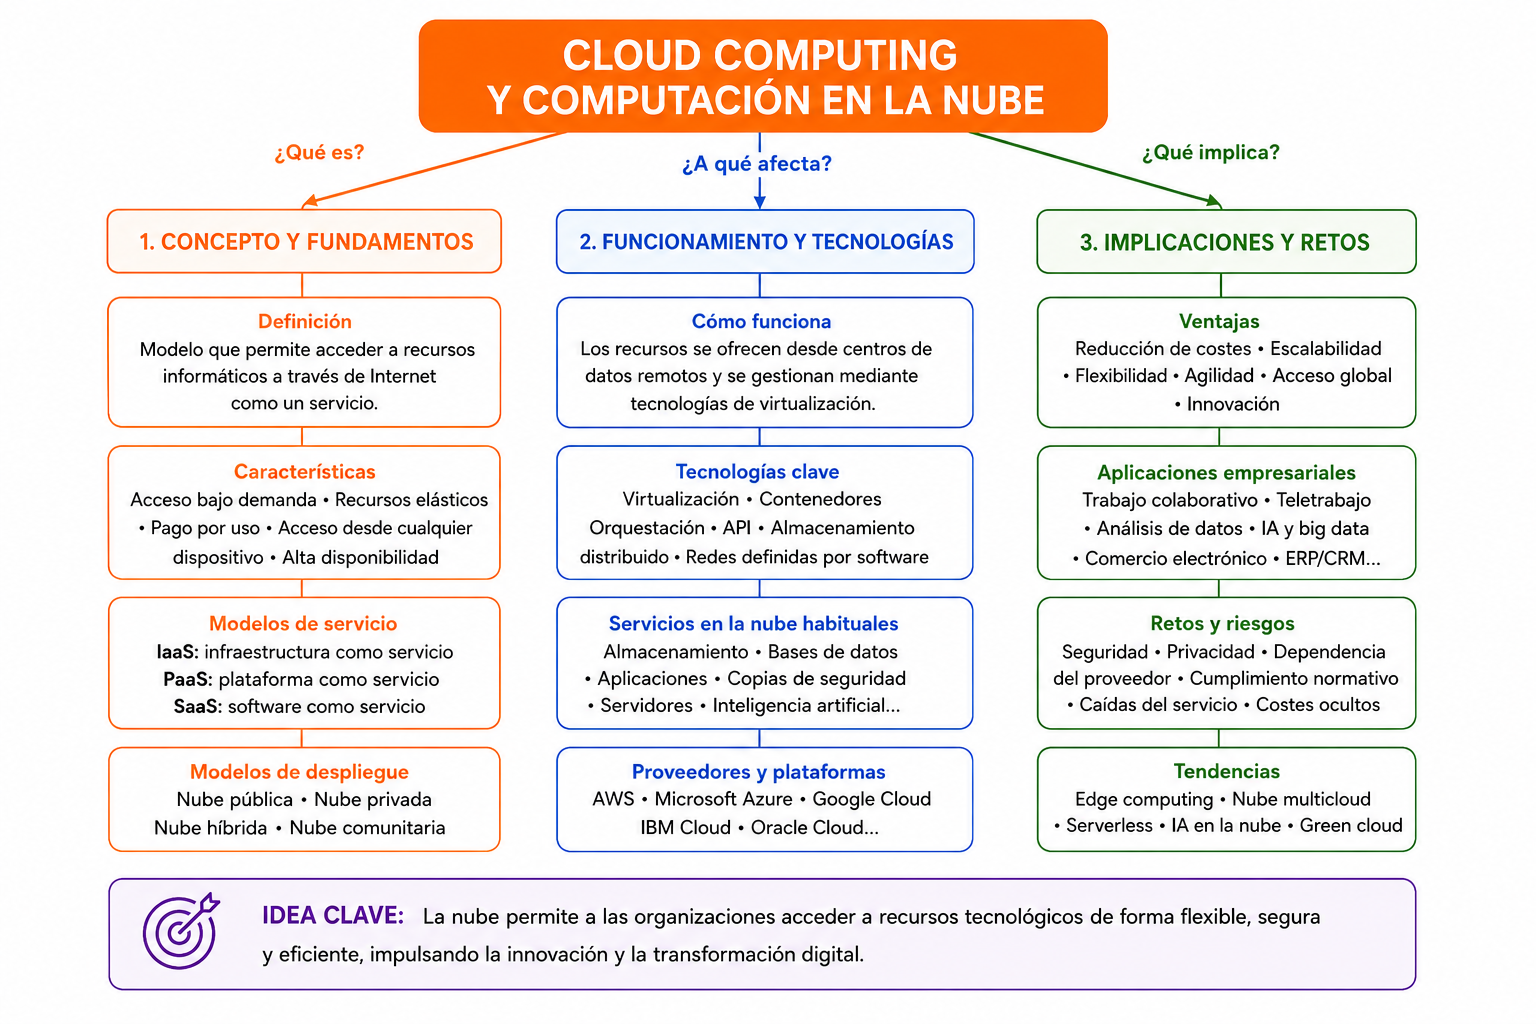
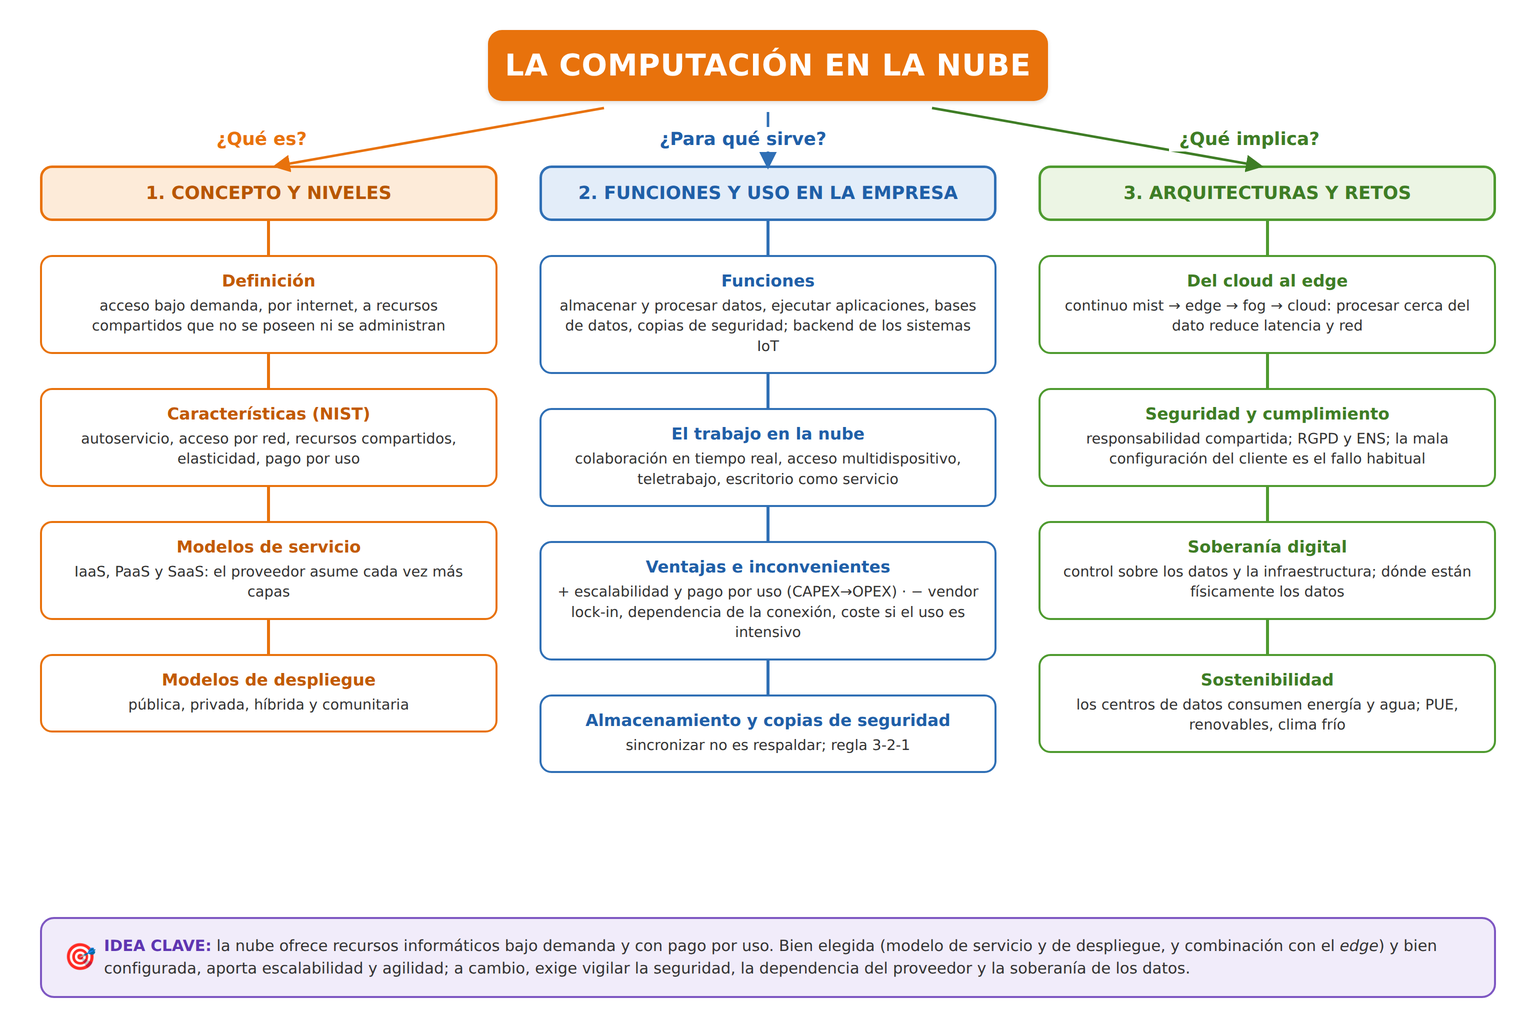
UD3: completa los contenidos del RA3 y regenera el mapa conceptual
- Añade las funciones de la nube y las posibilidades del trabajo en la nube
- Añade el apartado del cloud al edge: edge computing (ventajas y
  desventajas frente al cloud), fog y mist
- Renumera apartados y amplía la autoevaluación
- Regenera el mapa conceptual acorde a la nueva estructura

Claude-Session: https://claude.ai/code/session_01Sc4iXmGYX4nJpfHnHuWThb

Changed region(s): [[0.0, 0.0, 1.0, 0.9688]]

diff --git a/docs/ud3.md b/docs/ud3.md
@@ -26,7 +26,41 @@ El **NIST** (Instituto Nacional de Estándares y Tecnología de EE. UU.) define 
 ??? note "Ver respuesta"
     No. Fallan el **autoservicio bajo demanda** (hay que pedirlo por teléfono y esperar), la **elasticidad rápida** (no escala de forma ágil) y el **servicio medido / pago por uso** (cuota fija). Es alquilar hardware, no computación en la nube.
 
-## 2. Modelos de servicio: IaaS, PaaS y SaaS
+## 2. Funciones y posibilidades de la nube
+
+Más allá de *dónde* están los recursos, conviene saber **para qué** se usa la nube.
+
+### 2.1. Funciones principales
+
+- **Almacenamiento e intercambio de información**: guardar archivos y datos y compartirlos entre personas, sedes o aplicaciones (Drive, OneDrive, repositorios de datos).
+- **Procesamiento de datos**: ejecutar cálculos intensivos bajo demanda —análisis de *big data*, entrenamiento de modelos de IA, procesado de vídeo— sin comprar servidores.
+- **Ejecución de aplicaciones**: alojar y servir aplicaciones web, APIs y servicios a los que se accede desde cualquier dispositivo.
+- **Bases de datos gestionadas**: almacenar y consultar datos estructurados sin administrar el motor de base de datos.
+- **Copia de seguridad y recuperación ante desastres**: mantener copias externas y poder restaurar el servicio si falla la infraestructura local (véase apartado 8).
+- **Plataforma de desarrollo y despliegue**: entornos donde programar, probar y publicar software (integración y entrega continuas).
+- **Servicios avanzados "as a service"**: IA, analítica, IoT o mensajería listos para integrar en las aplicaciones.
+
+En los **sistemas conectados (IoT)**, la nube es habitualmente el lugar donde se reciben, almacenan y analizan los datos de los sensores, y desde donde se envían órdenes a los actuadores (véase UD2).
+
+### 2.2. El trabajo en la nube
+
+La nube ha cambiado la forma de trabajar en las organizaciones:
+
+- **Colaboración en tiempo real**: varias personas editan a la vez un mismo documento, hoja de cálculo o presentación, con historial de versiones.
+- **Acceso multidispositivo y multisede**: se trabaja con la misma información desde el ordenador de la oficina, el portátil de casa o el móvil.
+- **Teletrabajo y equipos distribuidos**: la nube proporciona el escritorio, las aplicaciones y los datos allí donde haya conexión.
+- **Escritorio como servicio (DaaS) y aplicaciones virtualizadas**: el puesto de trabajo se ejecuta en la nube y el dispositivo local actúa solo como terminal.
+- **Entornos de desarrollo y pruebas** que se crean y se destruyen en minutos, sin montar servidores físicos.
+
+!!! question "💡 Comprueba que lo has entendido"
+    Una asesoría con tres oficinas quiere que su personal edite los mismos expedientes a la vez, acceda a ellos desde casa y no dependa de un servidor físico en una de las sedes.
+
+    **Cita dos funciones o posibilidades de la nube que respondan a esta necesidad.**
+
+??? note "Ver respuesta"
+    Por ejemplo: **colaboración en tiempo real** sobre los mismos documentos con control de versiones; **acceso multidispositivo y multisede** a la información; **almacenamiento e intercambio de información** centralizado en la nube en lugar de en un servidor local; y, si procede, **escritorio como servicio (DaaS)** para trabajar desde casa.
+
+## 3. Modelos de servicio: IaaS, PaaS y SaaS
 
 Según qué capa de la infraestructura gestiona el proveedor y cuál gestiona el cliente, se distinguen tres modelos principales:
 
@@ -54,7 +88,7 @@ Una forma habitual de visualizar la diferencia es pensar en el nivel de "capas" 
 ??? note "Ver respuesta"
     **PaaS**: el proveedor aporta la infraestructura, el sistema operativo y el entorno de ejecución (bases de datos, lenguajes); el cliente solo gestiona su aplicación y sus datos. Con IaaS tendría que administrar el sistema operativo; con SaaS no podría desplegar código propio.
 
-## 3. Modelos de despliegue
+## 4. Modelos de despliegue
 
 Además del modelo de servicio, hay que distinguir **quién tiene acceso** a la infraestructura en la nube:
 
@@ -71,7 +105,7 @@ Además del modelo de servicio, hay que distinguir **quién tiene acceso** a la 
 ??? note "Ver respuesta"
     **Nube híbrida**: combina una **nube privada** (datos sensibles bajo control exclusivo) con una **nube pública** (picos de demanda de la web), moviendo cargas entre ambas según coste, rendimiento o normativa.
 
-## 4. Principales proveedores y soberanía digital
+## 5. Principales proveedores y soberanía digital
 
 Los tres grandes proveedores globales de nube pública son **Amazon Web Services (AWS)**, **Microsoft Azure** y **Google Cloud Platform (GCP)**, que concentran la mayor parte del mercado mundial. Junto a ellos existen proveedores especializados o regionales, incluidos proveedores europeos (como OVHcloud o Ionos) que se promocionan destacando el cumplimiento estricto de la normativa europea de protección de datos.
 
@@ -85,7 +119,7 @@ Esto conecta con el concepto de **soberanía digital**: la capacidad de un país
 ??? note "Ver respuesta"
     La **soberanía digital**: mantener el control sobre los datos y las infraestructuras propias sin quedar sujeto a legislaciones extranjeras. La **localización de los datos** y el cumplimiento del RGPD son factores relacionados.
 
-## 5. Ventajas e inconvenientes de migrar a la nube
+## 6. Ventajas e inconvenientes de migrar a la nube
 
 **Ventajas:**
 
@@ -99,7 +133,7 @@ Esto conecta con el concepto de **soberanía digital**: la capacidad de un país
 
 - **Dependencia del proveedor (*vendor lock-in*)**: cambiar de proveedor puede resultar técnica y económicamente costoso.
 - Dependencia de la conectividad a internet: sin conexión, el acceso al servicio puede verse comprometido.
-- Preocupaciones de seguridad y privacidad, especialmente con datos sensibles (se desarrolla en el punto siguiente).
+- Preocupaciones de seguridad y privacidad, especialmente con datos sensibles (se desarrolla más adelante).
 - Coste a largo plazo: el pago por uso puede acabar siendo más caro que una infraestructura propia bien dimensionada, si el uso es intensivo y constante en el tiempo.
 - Cuestiones de soberanía digital, ya comentadas.
 
@@ -111,7 +145,56 @@ Esto conecta con el concepto de **soberanía digital**: la capacidad de un país
 ??? note "Ver respuesta"
     No necesariamente: con uso **intensivo y constante**, el pago por uso puede acabar costando más que una infraestructura propia bien dimensionada. Además debería valorar el **vendor lock-in**: cambiar de proveedor más adelante puede ser técnica y económicamente costoso.
 
-## 6. Almacenamiento y copias de seguridad en la nube
+## 7. Del *cloud* al *edge*: edge computing, fog y mist
+
+Enviar **todos** los datos a la nube no siempre es la mejor opción: si hay millones de sensores generando datos cada segundo, o si una máquina necesita reaccionar en milisegundos, esperar la ida y vuelta hasta un centro de datos lejano introduce **latencia**, consume **ancho de banda** y crea **dependencia de la conexión**. La respuesta es **acercar el procesamiento al lugar donde se generan los datos**.
+
+### 7.1. Edge computing (computación en el borde)
+
+El **edge computing** consiste en procesar los datos **en el propio dispositivo o muy cerca de él** (una pasarela, un pequeño servidor local, el propio sensor "inteligente"), en lugar de enviarlos todos a la nube. A la nube solo se envían los **resultados** o los datos que de verdad conviene conservar o analizar de forma global.
+
+No sustituye a la nube, la **complementa**: el *edge* se encarga de la respuesta inmediata y del filtrado local; la nube, del almacenamiento histórico, el análisis a gran escala, el entrenamiento de modelos de IA y la gestión centralizada.
+
+| | **Cloud computing** | **Edge computing** |
+|---|---|---|
+| Dónde se procesa | Centro de datos remoto | En el dispositivo o cerca de él |
+| Latencia | Mayor (ida y vuelta por internet) | Muy baja (local) |
+| Ancho de banda | Alto (se envía todo) | Bajo (se envía lo esencial) |
+| Dependencia de la conexión | Alta | Baja: sigue funcionando sin conexión |
+| Cómputo y almacenamiento | Prácticamente ilimitados | Limitados por el hardware local |
+| Gestión y actualización | Centralizada y sencilla | Más compleja (muchos nodos distribuidos) |
+| Coste | Pago por uso; sube con mucho tráfico | Inversión en hardware local |
+
+**Ventajas del edge**: respuesta en tiempo real, menos tráfico de red, funcionamiento aunque falle la conexión y posibilidad de que los datos sensibles no salgan de las instalaciones (privacidad).
+
+**Desventajas del edge**: menor capacidad de proceso y almacenamiento, mantenimiento y actualización más difíciles (muchos equipos repartidos) y necesidad de proteger físicamente los nodos.
+
+Ejemplos: un vehículo autónomo que decide frenar sin consultar a un servidor; una cámara que reconoce una matrícula en local y solo sube el texto; una línea de producción que ajusta una máquina al instante.
+
+### 7.2. Fog computing y mist computing
+
+Entre el *edge* y la nube pueden existir **capas intermedias** que reparten el procesamiento según su urgencia y su alcance:
+
+- **Fog computing (computación en la niebla)**: capa intermedia formada por nodos con cierta capacidad (pasarelas IoT, routers, pequeños servidores) situados en la **red local o de área**, entre los dispositivos y la nube. Agregan y preprocesan los datos de muchos dispositivos antes de decidir qué se resuelve localmente y qué sube a la nube. Zona de aplicación: una fábrica, un edificio, una subestación eléctrica, una *smart city* por barrios.
+- **Mist computing (computación en la bruma)**: lleva el procesamiento **al extremo mismo de la red**, a los microcontroladores y sensores más simples. Realiza tareas mínimas (filtrar una lectura, disparar una alarma local) con muy poco consumo. Zona de aplicación: el propio nodo sensor, redes de sensores alimentadas por batería.
+
+Visto en conjunto se forma un **continuo**: *mist* (sensor) → *edge* (dispositivo o pasarela) → *fog* (red local) → *cloud* (centro de datos). Cada capa asume la parte del trabajo para la que es más eficiente: cuanto más cerca del dato, menor latencia y menor consumo de red; cuanto más cerca de la nube, más capacidad y más visión global.
+
+!!! question "💡 Comprueba que lo has entendido"
+    Clasifica cada caso como *edge*, *fog*, *mist* o *cloud*:
+
+    1. Un sensor de vibración que, con su microcontrolador, solo envía un aviso si supera un umbral.
+    2. Un servidor en la propia fábrica que reúne los datos de todas las máquinas de una nave y decide qué sube al centro de datos.
+    3. El entrenamiento de un modelo de IA con el histórico de dos años de toda la empresa.
+    4. Un autómata de la línea que corrige la posición de un brazo en milisegundos.
+
+??? note "Ver respuesta"
+    1. **Mist** — procesamiento mínimo en el propio sensor.
+    2. **Fog** — nodo intermedio en la red local que agrega y filtra.
+    3. **Cloud** — gran capacidad de cómputo y visión global, sin urgencia de milisegundos.
+    4. **Edge** — procesamiento junto a la máquina para responder en tiempo real.
+
+## 8. Almacenamiento y copias de seguridad en la nube
 
 El almacenamiento en la nube es uno de los servicios más extendidos, tanto a nivel personal (Google Drive, Dropbox, OneDrive) como profesional. Conviene distinguir:
 
@@ -129,7 +212,7 @@ El almacenamiento en la nube es uno de los servicios más extendidos, tanto a ni
 ??? note "Ver respuesta"
     La sincronización **propaga cualquier cambio**, incluido el cifrado malicioso: la copia de la nube queda igual de inservible. Le habría protegido una **copia de seguridad con versiones históricas** (poder restaurar una versión anterior al ataque) y aplicar la **regla 3-2-1**.
 
-## 7. Seguridad, privacidad y cumplimiento normativo en la nube
+## 9. Seguridad, privacidad y cumplimiento normativo en la nube
 
 Un concepto clave para entender la seguridad en la nube es el **modelo de responsabilidad compartida**: el proveedor de la nube es responsable de la seguridad *de* la nube (la infraestructura física, la red, la virtualización), mientras que el cliente es responsable de la seguridad *en* la nube (la configuración de sus servicios, la gestión de accesos, el cifrado de sus propios datos, las copias de seguridad de su información). Un fallo de seguridad muy habitual no es un fallo del proveedor, sino una mala configuración por parte del cliente (por ejemplo, dejar un almacenamiento en la nube accesible públicamente por error).
 
@@ -147,7 +230,7 @@ Aspectos normativos relevantes en el contexto europeo y español:
 ??? note "Ver respuesta"
     Del **cliente**. El proveedor responde de la seguridad *de* la nube (infraestructura física, red, virtualización); la **configuración de los servicios y la gestión de accesos** son seguridad *en* la nube, responsabilidad del cliente. Una mala configuración es el fallo más habitual.
 
-## 8. Sostenibilidad y eficiencia de los centros de datos
+## 10. Sostenibilidad y eficiencia de los centros de datos
 
 Como se avanzó en la UD1, los centros de datos que sostienen la nube consumen cantidades muy significativas de electricidad y, en muchos casos, de agua para refrigeración. Los grandes proveedores de nube compiten actualmente por mejorar su eficiencia energética, mediante indicadores como el **PUE (*Power Usage Effectiveness*)**, que mide la relación entre la energía total consumida por un centro de datos y la que realmente utilizan sus equipos informáticos (cuanto más próximo a 1, más eficiente es el centro de datos), así como mediante el uso de energías renovables y la ubicación de centros de datos en climas fríos que reducen la necesidad de refrigeración activa.
 
@@ -178,8 +261,8 @@ Busca información sobre un incidente de seguridad real relacionado con almacena
 ## Mapa conceptual
 
 <figure markdown="span">
-  ![Mapa conceptual de la Unidad 3: la computación en la nube y sus tres ramas —concepto y fundamentos, funcionamiento y tecnologías, e implicaciones y retos](assets/img/ud3-mapa-conceptual.png){ width="960" }
-  <figcaption>Síntesis de la unidad: la computación en la nube se aborda desde su <strong>concepto y fundamentos</strong> (definición, características, modelos de servicio y de despliegue), su <strong>funcionamiento y tecnologías</strong> (virtualización, contenedores, servicios habituales y principales proveedores) y sus <strong>implicaciones y retos</strong> (ventajas, aplicaciones empresariales, riesgos y tendencias como el *edge computing* o el *green cloud*).</figcaption>
+  ![Mapa conceptual de la Unidad 3: la computación en la nube y sus tres ramas —concepto y niveles, funciones y uso en la empresa, y arquitecturas y retos](assets/img/ud3-mapa-conceptual.png){ width="960" }
+  <figcaption>Síntesis de la unidad: la computación en la nube se aborda desde su <strong>concepto y niveles</strong> (definición, características del NIST, modelos de servicio IaaS/PaaS/SaaS y modelos de despliegue), sus <strong>funciones y uso en la empresa</strong> (procesar y almacenar datos, ejecutar aplicaciones, trabajo colaborativo, ventajas e inconvenientes y copias de seguridad) y sus <strong>arquitecturas y retos</strong> (del *cloud* al *edge*, *fog* y *mist*; seguridad y responsabilidad compartida; soberanía digital y sostenibilidad).</figcaption>
 </figure>
 
 ## Autoevaluación
@@ -210,3 +293,15 @@ Busca información sobre un incidente de seguridad real relacionado con almacena
 
 ??? question "9. ¿Qué es la soberanía digital?"
     La capacidad de un país, una administración o una empresa de mantener el control sobre sus datos e infraestructuras digitales, sin depender en exceso de proveedores extranjeros sujetos a legislaciones distintas.
+
+??? question "10. Cita tres funciones principales de la nube."
+    Por ejemplo: almacenamiento e intercambio de información, procesamiento de datos bajo demanda, ejecución de aplicaciones y APIs, bases de datos gestionadas, copia de seguridad y recuperación ante desastres, y plataforma de desarrollo y despliegue.
+
+??? question "11. Indica dos posibilidades que ofrece la nube para el trabajo en la empresa."
+    Por ejemplo: colaboración en tiempo real sobre los mismos documentos con historial de versiones, acceso multidispositivo y multisede a la información, teletrabajo y equipos distribuidos, o escritorio como servicio (DaaS).
+
+??? question "12. ¿Qué es el *edge computing* y qué ventaja principal aporta frente al *cloud computing*?"
+    Consiste en procesar los datos en el propio dispositivo o muy cerca de él, en lugar de enviarlos todos a la nube. Su ventaja principal es la **baja latencia** (respuesta en tiempo real), además de reducir el tráfico de red y poder seguir funcionando sin conexión. A cambio, tiene menos capacidad de cómputo y almacenamiento y es más difícil de mantener.
+
+??? question "13. ¿Qué diferencia hay entre *fog* y *mist computing*?"
+    El *fog computing* es una capa intermedia en la red local o de área (pasarelas, routers, pequeños servidores) que agrega y preprocesa los datos de muchos dispositivos antes de decidir qué sube a la nube. El *mist computing* lleva el procesamiento al extremo mismo de la red, a los microcontroladores y sensores más simples, para tareas mínimas y de muy bajo consumo.
